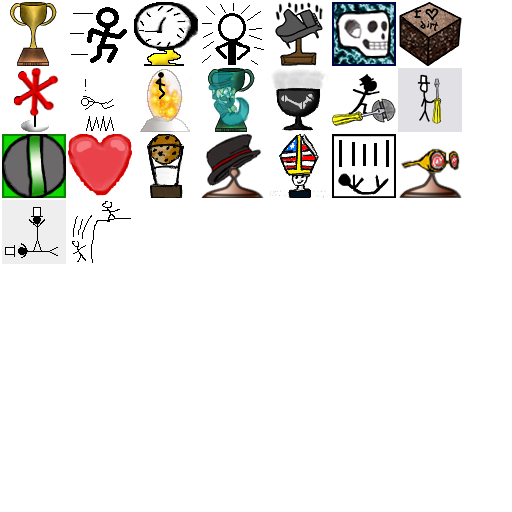
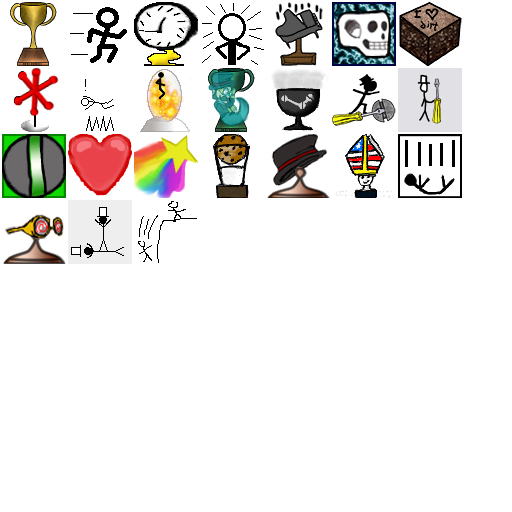
One more trophy added.

Changed region(s): [[0.25, 0.25, 0.9062, 0.4375], [0.0, 0.375, 0.25, 0.5312], [0.2812, 0.4375, 0.3125, 0.5]]

diff --git a/werescrewed/src/com/blindtigergames/werescrewed/screens/TrophyScreen.java b/werescrewed/src/com/blindtigergames/werescrewed/screens/TrophyScreen.java
@@ -575,16 +575,12 @@ public class TrophyScreen extends Screen {
 			if ( playerNum == 1 ) {
 				player1[ index ] = new Label(
 						"You Played \n The Best Game Ever!!", fancyFont );
-				Texture icon = WereScrewedGame.manager.get( WereScrewedGame.dirHandle
-						+ "/common/trophies/trophy.png", Texture.class );
-				trophies1[ index ] = new Sprite ( icon );
+				trophies1[ index ] = texAtlas.createSprite("trophy27");
 				trophyIndices[ index ] = trophyNum;
 			} else if ( playerNum == 2 ) {
 				player2[ index ] = new Label(
 						"You Played \n The Best Game Ever!!", fancyFont );
-				Texture icon = WereScrewedGame.manager.get( WereScrewedGame.dirHandle
-						+ "/common/trophies/trophy.png", Texture.class );
-				trophies2[ index ] = new Sprite ( icon );
+				trophies2[ index ] = texAtlas.createSprite("trophy27");
 				trophyIndices[ trophyLength + index ] = trophyNum;
 			}
 			break;
